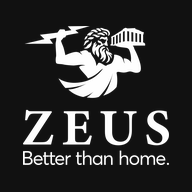
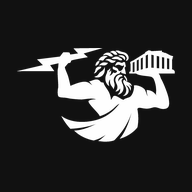
update menu

Changed region(s): [[0.0938, 0.125, 0.9062, 0.875]]

diff --git a/src/app/layout.tsx b/src/app/layout.tsx
@@ -25,15 +25,8 @@ export const metadata: Metadata = {
   metadataBase: new URL(
     process.env.NEXT_PUBLIC_SITE_URL || "https://book.vercel.app",
   ),
-  icons: {
-    icon: [
-      { url: "/favicon.ico", sizes: "any" },
-      { url: "/favicon-32.png", sizes: "32x32", type: "image/png" },
-      { url: "/favicon-48.png", sizes: "48x48", type: "image/png" },
-      { url: "/icon-192.png", sizes: "192x192", type: "image/png" },
-    ],
-    apple: [{ url: "/icon-192.png", sizes: "180x180", type: "image/png" }],
-  },
+  // Favicons come from app/icon.png, app/apple-icon.png, app/favicon.ico
+  // (generated from the header ZEUS mark — figure only, not the full wordmark).
   openGraph: {
     title: "ZEUS",
     description: "Better than home. Discover exceptional Athens residences.",

diff --git a/scripts/generate-favicons.py b/scripts/generate-favicons.py
@@ -1,0 +1,97 @@
+"""Regenerate favicons from public/zeus-logo.webp (header logo).
+
+Small icons (16/32/48) use the Zeus bust (head + lightning) for clarity.
+Large icons (180/192/512) use the full figure mark.
+"""
+from __future__ import annotations
+
+import struct
+from io import BytesIO
+from pathlib import Path
+
+import numpy as np
+from PIL import Image
+
+ROOT = Path(__file__).resolve().parents[1]
+PUBLIC = ROOT / "public"
+APP = ROOT / "src" / "app"
+BG = (17, 17, 17)
+
+
+def content_bbox(img: Image.Image, threshold: float = 12.0, pad: int = 16) -> tuple[int, int, int, int]:
+    bright = np.array(img.convert("RGB")).mean(axis=2)
+    ys, xs = np.where(bright > threshold)
+    return (
+        max(0, int(xs.min()) - pad),
+        max(0, int(ys.min()) - pad),
+        min(img.width, int(xs.max()) + pad),
+        min(img.height, int(ys.max()) + pad),
+    )
+
+
+def fit_square(src: Image.Image, size: int, padding_ratio: float) -> Image.Image:
+    rgba = src.convert("RGBA")
+    pix = np.array(rgba)
+    brightness = pix[:, :, :3].mean(axis=2)
+    pix[:, :, 3] = np.where(brightness > 8, 255, 0).astype(np.uint8)
+    src_t = Image.fromarray(pix)
+
+    canvas = Image.new("RGBA", (size, size), (*BG, 255))
+    pad = max(1, int(size * padding_ratio))
+    box = size - pad * 2
+    ratio = min(box / src_t.width, box / src_t.height)
+    nw = max(1, int(src_t.width * ratio))
+    nh = max(1, int(src_t.height * ratio))
+    resized = src_t.resize((nw, nh), Image.Resampling.LANCZOS)
+    canvas.paste(resized, ((size - nw) // 2, (size - nh) // 2), resized)
+    return canvas.convert("RGB")
+
+
+def ico_bytes(images: list[Image.Image]) -> bytes:
+    pngs: list[bytes] = []
+    for image in images:
+        buf = BytesIO()
+        image.save(buf, format="PNG")
+        pngs.append(buf.getvalue())
+
+    count = len(pngs)
+    header = struct.pack("<HHH", 0, 1, count)
+    entries = b""
+    offset = 6 + 16 * count
+    blobs = b""
+    for image, data in zip(images, pngs):
+        side = image.width
+        width = 0 if side >= 256 else side
+        entries += struct.pack("<BBBBHHII", width, width, 0, 0, 1, 32, len(data), offset)
+        offset += len(data)
+        blobs += data
+    return header + entries + blobs
+
+
+def main() -> None:
+    logo = Image.open(PUBLIC / "zeus-logo.webp").convert("RGBA")
+    figure = logo.crop((0, 0, logo.width, 800))
+    full = figure.crop(content_bbox(figure))
+
+    bust = full.crop((0, 0, int(full.width * 0.68), full.height))
+    bust = bust.crop(content_bbox(bust, pad=12))
+
+    fit_square(full, 512, 0.08).save(APP / "icon.png", "PNG", optimize=True)
+    fit_square(full, 180, 0.08).save(APP / "apple-icon.png", "PNG", optimize=True)
+    fit_square(full, 192, 0.08).save(PUBLIC / "icon-192.png", "PNG", optimize=True)
+    fit_square(full, 512, 0.08).save(PUBLIC / "icon-512.png", "PNG", optimize=True)
+
+    for size, name in ((16, "favicon-16.png"), (32, "favicon-32.png"), (48, "favicon-48.png")):
+        fit_square(bust, size, 0.06).save(PUBLIC / name, "PNG", optimize=True)
+
+    data = ico_bytes([fit_square(bust, size, 0.06) for size in (16, 32, 48)])
+    (PUBLIC / "favicon.ico").write_bytes(data)
+    (APP / "favicon.ico").write_bytes(data)
+
+    full.save(PUBLIC / "zeus-mark.png")
+    bust.save(PUBLIC / "zeus-mark-bust.png")
+    print(f"Regenerated favicons from {PUBLIC / 'zeus-logo.webp'}")
+
+
+if __name__ == "__main__":
+    main()
